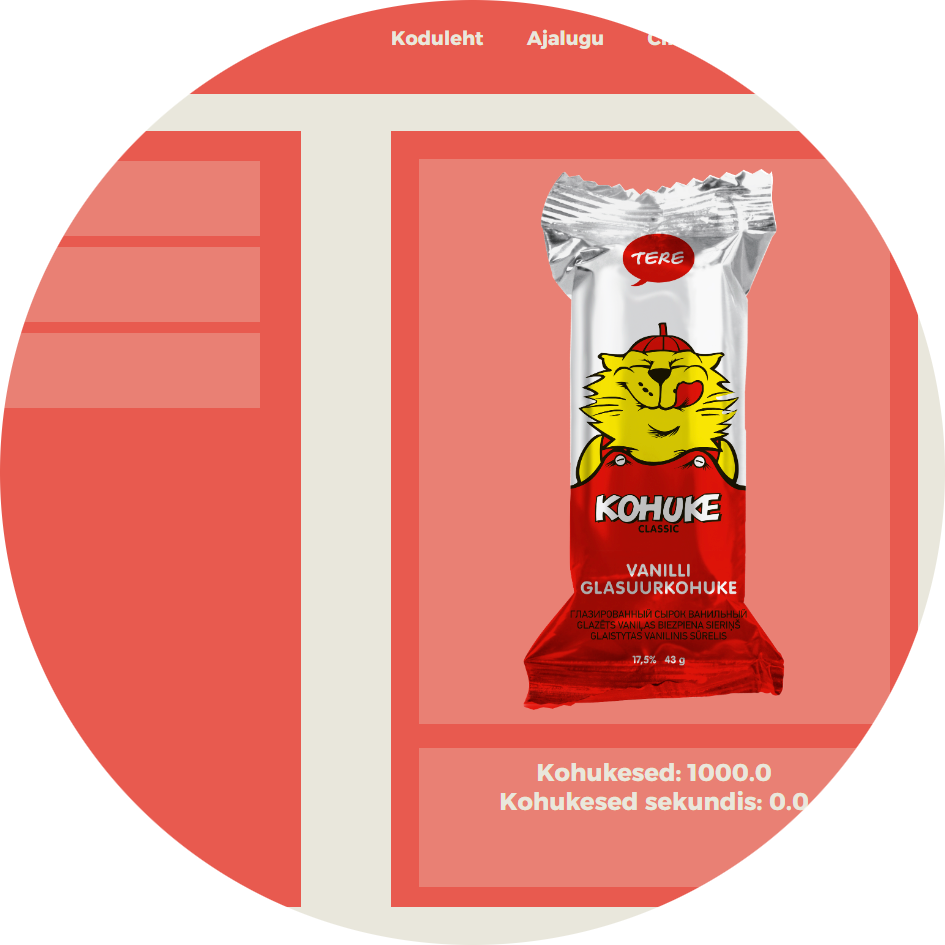
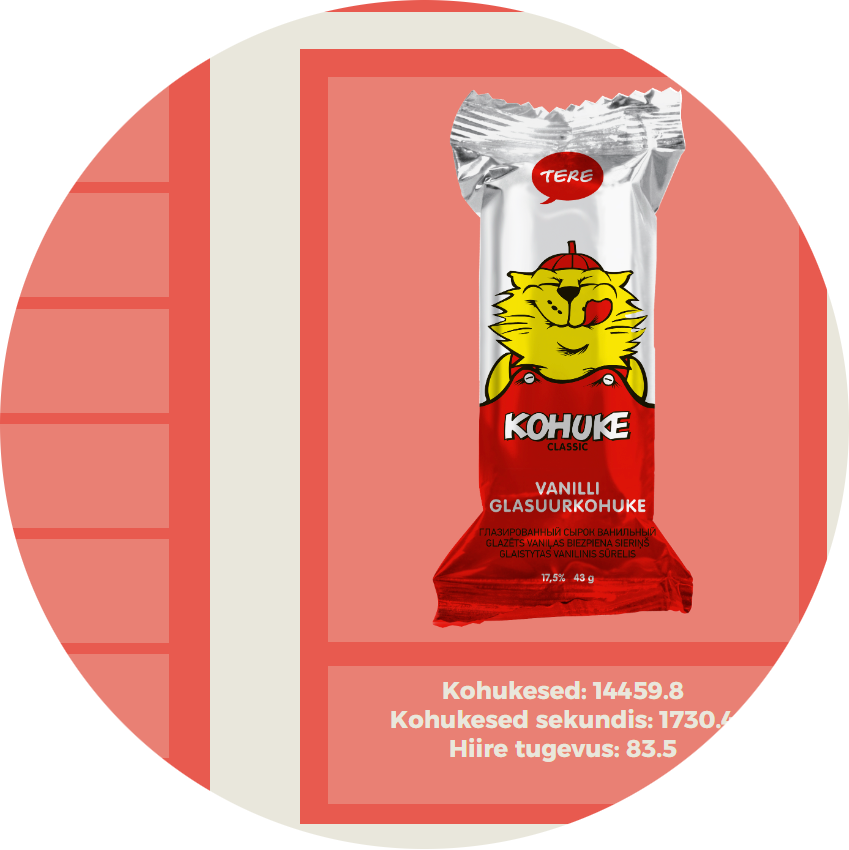
Viimased muudatused

diff --git a/index.html b/index.html
@@ -3,9 +3,9 @@
 <head>
     <meta charset="UTF-8">
     <title>Kohuclicker</title>
-    <link rel="stylesheet" type="text/css" href="CSS/ajalugu.css">
     <link rel="stylesheet" type="text/css" href="CSS/style.css">
     <link rel="stylesheet" type="text/css" href="CSS/koduleht.css">
+    <link rel="stylesheet" type="text/css" href="CSS/hinnangud.css">
     <link rel="preconnect" href="https://fonts.googleapis.com">
     <link rel="preconnect" href="https://fonts.gstatic.com" crossorigin>
     <link href="https://fonts.googleapis.com/css2?family=Alexandria:wght@700&display=swap" rel="stylesheet"> 
@@ -18,8 +18,6 @@
         <div class="links">
             <ul>
                 <li><a href="clicker.html">Mängi</a></li>
-                <li><a href="ajalugu.html">Ajalugu</a></li>
-                <li><a href="">Hinnangud</a></li>
             </ul>
         </div>
     </div>
@@ -37,25 +35,19 @@
     <div>
         <div class="text">
             <div class="jaotavus">
-                <a href="clicker.html"><img class="pilt2" src="Pildid/kohuklicker.png"></img></a>
-                <div>
-                    <h1>Kohukese Mäng</h1>
-                    <p class="left">Mängi kohuclickerit, meie poolt loodud mäng, mis sai inspiratsiooni hitt mängust Cookie Clicker</p>
-                </div>
+                <a href="clicker.html"><img class="parempilt" src="Pildid/kohuklicker.png"></img></a>
+                <h1 class="left">Kohukese Mäng</h1>
+                <p class="left">Mängi kohuclickerit, meie poolt loodud mäng, mis sai inspiratsiooni hitt mängust Cookie Clicker</p>
             </div>
             <div class="jaotavus2">
-                <a href="clicker.html"><img class="pilt2" src="Pildid/kohuklicker.png"></img></a>
-                <div>
-                    <h1>Kohukese Ajalugu</h1>
-                    <p class="leftdark">Loe Eestlaste lemmik snäkki ajaloost ja tutvu esimese kohukesega!</p>
-                </div>
+                <a href="ajalugu.html"><img class="parempilt" src="Pildid/ajalugu.png"></img></a>
+                <h1 class="left">Kohukese Ajalugu</h1>
+                <p class="leftdark">Loe Eestlaste lemmik snäkki ajaloost ja tutvu esimese kohukesega!</p>
             </div>
             <div class="jaotavus">
-                <a href="clicker.html"><img class="pilt2" src="Pildid/kohuklicker.png"></img></a>
-                <div>
-                    <h1>Kohukese Hinnangud</h1>
-                    <p class="left">Uuri meie kohukesi hinnanguid, et järgmine kord poes õige valik teha!</p>
-                </div>
+                <a href="hinnangud.html"><img class="parempilt" src="Pildid/hinnangud.png"></img></a>
+                <h1 class="left">Kohukese Hinnangud</h1>
+                <p class="left">Uuri meie kohukese hinnanguid, et järgmine kord poes õige valik teha!</p>
             </div>
         </div>
     </div>

diff --git a/CSS/koduleht.css b/CSS/koduleht.css
@@ -21,14 +21,14 @@ nav a{
     margin-right: 3vh;
 }
 .links ul li a{
-    font-size: 7vh;
+    font-size: 15vh;
     color: azure;
     text-decoration: none;
 }
 .links ul li::after{
     content: " ";
     width: 0%;
-    height: 0.6vh;
+    height: 1vh;
     background: #E85A4F;
     display: block;
     margin: auto;
@@ -38,7 +38,7 @@ nav a{
     width: 100%;
 }
 .headertext {
-    margin-top: 20vh;
+    margin-top: 30vh;
     color: azure;
     text-align: center;
     margin-bottom: 10px;
@@ -47,7 +47,7 @@ nav a{
     text-align: center;
     overflow: auto;
     height: 100vh;
-    font-size: 8vh;
+    font-size: 5vh;
     height: 100vh;
     width: 100%;
     background-image:linear-gradient(rgba(142, 141, 138, 0.8),rgba(142, 141, 138, 0.8)),url(../Pildid/background1.jpeg);
@@ -68,6 +68,7 @@ nav a{
     margin-right: 2%;
     margin-bottom: 1%;
     width: 300px;
+    filter:blur(2px);
 }
 
 .left {
@@ -88,4 +89,9 @@ nav a{
     padding-top: 2%;
     padding-bottom: 2%;
     background-color: #D8C3A5;
+}
+
+.parempilt {
+    height: 30vh;
+    filter: blur(2px);
 }

diff --git a/CSS/style.css b/CSS/style.css
@@ -38,8 +38,6 @@ body{                                                       /* Helepunane - #E98
 }
 
 /* Nav bar algab */
-
-/* Nav bar algab */
 .navbar{
     color: #EAE7DC;
     background-color: #E85A4F;
@@ -80,4 +78,9 @@ body{                                                       /* Helepunane - #E98
 
 /* Nav bar lõppeb */
 
-/* Nav bar lõppeb */
+.parempilt{
+    float: right;
+    padding-left: 2%;
+    margin-right: 6%;
+    height: 35vh;
+}

diff --git a/CSS/hinnangud.css b/CSS/hinnangud.css
@@ -9,13 +9,6 @@ body{
     height: 35vh;
 }
 
-.parempilt{
-    float: right;
-    padding-left: 2%;
-    margin-right: 6%;
-    height: 35vh;
-}
-
 nav{
     padding: 2% 4%;
     display: flex;
